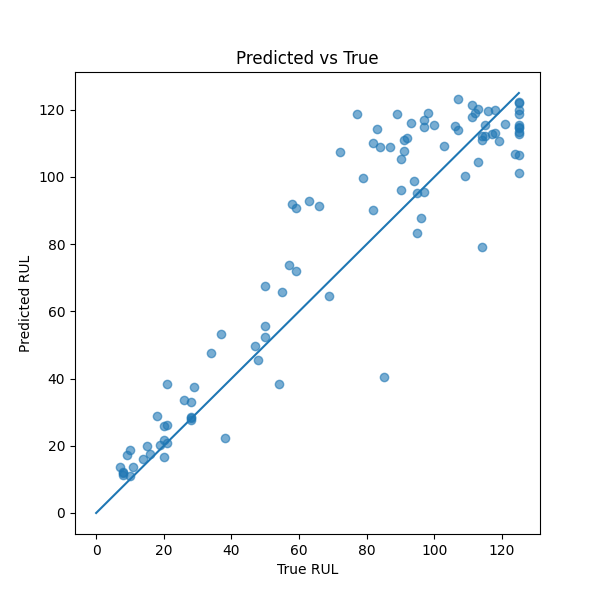
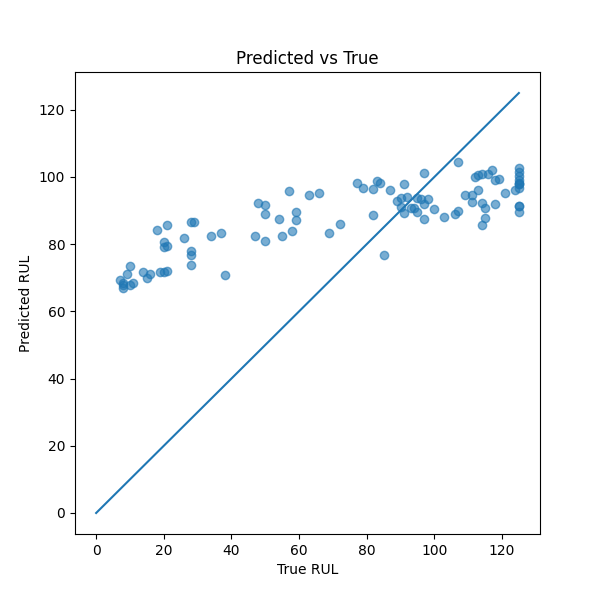
Suppresses all noisy warnings from TensorFlow, MLflow, and Python

diff --git a/src/utils/suppress_warnings.py b/src/utils/suppress_warnings.py
@@ -1,0 +1,23 @@
+""
+import os
+import warnings
+import logging
+
+# Suppress TensorFlow warnings
+os.environ['TF_CPP_MIN_LOG_LEVEL'] = '2'  # 0=all, 1=info, 2=warning, 3=error
+os.environ['TF_ENABLE_ONEDNN_OPTS'] = '0'  # Disable oneDNN messages
+
+# Suppress Python warnings
+warnings.filterwarnings('ignore', category=FutureWarning)
+warnings.filterwarnings('ignore', category=DeprecationWarning)
+warnings.filterwarnings('ignore', category=UserWarning)
+
+# Suppress MLflow warnings
+logging.getLogger('mlflow').setLevel(logging.ERROR)
+logging.getLogger('mlflow.utils.environment').setLevel(logging.ERROR)
+logging.getLogger('mlflow.utils.uv_utils').setLevel(logging.ERROR)
+logging.getLogger('mlflow.models.model').setLevel(logging.ERROR)
+logging.getLogger('mlflow.store.model_registry').setLevel(logging.ERROR)
+
+# Suppress TensorFlow logging
+logging.getLogger('tensorflow').setLevel(logging.ERROR)

diff --git a/src/components/model_registry.py b/src/components/model_registry.py
@@ -76,11 +76,14 @@ class ModelRegistry:
     def promote_model(self, version):
         logging.info(f"Promoting version {version} to {self.config.stage}")
 
-        self.client.transition_model_version_stage(
-            name=self.config.registered_model_name,
-            version=version,
-            stage=self.config.stage
-        )
+        import warnings
+        with warnings.catch_warnings():
+            warnings.filterwarnings('ignore', category=FutureWarning)
+            self.client.transition_model_version_stage(
+                name=self.config.registered_model_name,
+                version=version,
+                stage=self.config.stage
+            )
 
         logging.info("Promotion successful")
 

diff --git a/main.py b/main.py
@@ -1,6 +1,6 @@
+from src.utils.suppress_warnings import *
 from src.logging.logger import logging
 from src.exception.exception import CustomException
-import sys
 from src.pipeline.data_ingestion_pipeline import DataIngestionPipeline
 from src.pipeline.data_validation_pipeline import DataValidationPipeline
 from src.pipeline.data_transformation_pipeline import DataTransformationPipeline
@@ -9,7 +9,7 @@ from src.pipeline.model_trainer_pipeline import ModelTrainingPipeline
 from src.pipeline.model_evaluation_pipeline import ModelEvaluationPipeline
 from src.pipeline.model_registry_pipeline import ModelRegistryPipeline
 from src.utils.mlflow_setup import setup_mlflow
-import mlflow
+import mlflow, sys
 
 # Setup MLflow once for the entire pipeline
 setup_mlflow()
@@ -87,4 +87,5 @@ with mlflow.start_run(run_name="aircraft-engine-rul-pipeline"):
         logging.error(f"Error in stage {STAGE_NAME}")
         raise CustomException(e, sys)
 
-logging.info("========== PIPELINE COMPLETED SUCCESSFULLY ==========")
+logging.info("========== PIPELINE COMPLETED SUCCESSFULLY ==========\n")
+